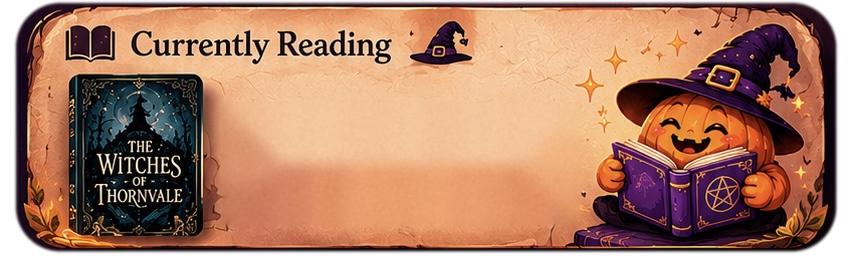
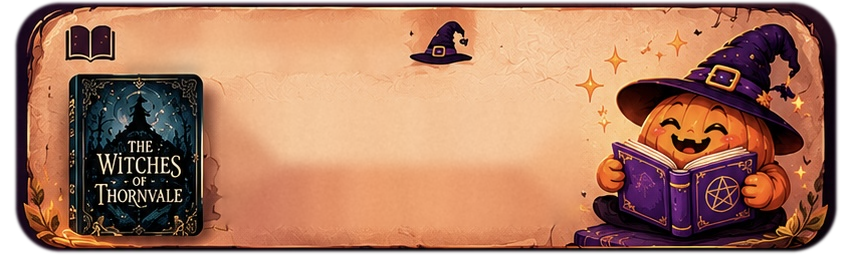
Home: turn the card into "Latest Addition" (home-14)
Shows the newest book saved (title, author, "Added today/yesterday/
date"); the book on the left is now a frame that shows its cover, or a
witchy placeholder cover with the title when there is none. Progress
bar removed. Reads Shelf's saved list until the new storage exists.

Claude-Session: https://claude.ai/code/session_01DZ2PcyBswD9UMmCJw8nEKc

Changed region(s): [[0.1526, 0.0927, 0.4577, 0.278]]

diff --git a/index.html b/index.html
@@ -3,7 +3,7 @@
 <head>
 <meta charset="utf-8">
 <meta http-equiv="Cache-Control" content="no-cache">
-<meta name="app-version" content="home-13">
+<meta name="app-version" content="home-14">
 <meta name="viewport" content="width=device-width, initial-scale=1, viewport-fit=cover, user-scalable=no">
 <meta name="apple-mobile-web-app-capable" content="yes">
 <meta name="mobile-web-app-capable" content="yes">
@@ -67,10 +67,17 @@ html,body{margin:0;height:100%;background:var(--skyTop,#12051f);overflow:hidden;
 #reading>*{position:absolute}
 .cr-title{left:232px;top:106px;width:300px;font-size:27px;font-weight:700;line-height:1.1;white-space:nowrap;overflow:hidden;text-overflow:ellipsis}
 .cr-author{left:233px;top:141px;width:300px;font-size:22px;line-height:1.1;white-space:nowrap;overflow:hidden;text-overflow:ellipsis}
-.cr-bar{left:231px;top:186px;width:267px;height:23px;border-radius:12px;background:linear-gradient(#fbead2,#ecd0ae);
- box-shadow:0 0 0 2px #4a2a22,inset 0 2px 3px rgba(0,0,0,.25),0 3px 5px rgba(60,20,10,.35);overflow:hidden}
-.cr-bar i{display:block;height:100%;border-radius:12px;background:linear-gradient(#b27ad8,#7a3fae 45%,#4e2180);box-shadow:inset 0 2px 1px rgba(255,255,255,.35),inset 0 -2px 2px rgba(0,0,0,.3),1px 0 0 #3a1460}
-.cr-pct{left:512px;top:182px;font-size:28px;font-weight:600}
+.la-head{left:130px;top:24px;font-size:33px;font-weight:600;letter-spacing:.2px;color:#2a1410}
+.la-when{left:233px;top:180px;width:300px;font-size:21px;font-style:italic;color:#6a3a2a}
+.la-cover{left:69px;top:74px;width:134px;height:162px;border-radius:6px;overflow:hidden;background:#140a1c;box-shadow:0 4px 10px rgba(40,10,10,.55),0 0 0 1px rgba(20,5,5,.6)}
+.la-cover img{position:absolute;inset:0;width:100%;height:100%;object-fit:cover}
+.la-cover::after{content:"";position:absolute;inset:0;pointer-events:none;border-radius:6px;
+ background:linear-gradient(90deg,rgba(0,0,0,.45),rgba(255,255,255,.18) 5%,rgba(0,0,0,.12) 9%,transparent 14%),linear-gradient(transparent 70%,rgba(0,0,0,.18))}
+.la-ph{position:absolute;inset:0;display:flex;flex-direction:column;align-items:center;justify-content:center;gap:8px;padding:14px 12px 10px 18px;
+ background:radial-gradient(circle at 50% 30%,#3c2a5c,#1e1232 70%);box-shadow:inset 0 0 0 5px #1e1232,inset 0 0 0 6px #c9a24e,inset 0 0 0 9px #1e1232,inset 0 0 0 10px rgba(201,162,78,.6)}
+.la-ph[hidden]{display:none}
+.la-ph svg{width:44px;height:44px}
+.la-ph span{font-size:15px;line-height:1.1;color:#e9c873;text-align:center;display:-webkit-box;-webkit-line-clamp:3;-webkit-box-orient:vertical;overflow:hidden}
 #topFade{width:852px;height:46px;pointer-events:none;background:linear-gradient(var(--skyTop,#12051f),transparent);z-index:1}
 #clock{top:452px;left:60px;width:732px;height:88px;display:flex;flex-direction:column;align-items:center;justify-content:center;
  font-family:"IM Fell English SC",Georgia,serif;color:#f1cf7c;text-shadow:0 0 14px rgba(255,180,80,.35),0 2px 2px #000;pointer-events:none}
@@ -122,11 +129,12 @@ html,body{margin:0;height:100%;background:var(--skyTop,#12051f);overflow:hidden;
   <nav id="bar" aria-label="Main">
     <button class="tab" aria-label="Button 1"></button><button class="tab" aria-label="Button 2"></button><button class="tab" aria-label="Button 3"></button><button class="tab" aria-label="Button 4"></button>
   </nav>
-  <section id="reading" aria-label="Currently reading">
-    <div class="cr-title">The Witches of Thornvale</div>
-    <div class="cr-author">Elise Hartman</div>
-    <div class="cr-bar" role="progressbar" aria-valuenow="68" aria-valuemin="0" aria-valuemax="100"><i style="width:68%"></i></div>
-    <div class="cr-pct">68%</div>
+  <section id="reading" aria-label="Latest addition">
+    <div class="la-head">Latest Addition</div>
+    <div class="la-cover"><img id="laImg" alt="" hidden><div id="laPh" class="la-ph"><svg viewBox="0 0 40 40" aria-hidden="true"><path d="M24 6a14 14 0 1 0 10 24A11 11 0 1 1 24 6z" fill="#e9c873"/><path d="M31 9l1 2.4 2.4 1-2.4 1-1 2.4-1-2.4-2.4-1 2.4-1z" fill="#f6dc96"/></svg><span id="laPhTitle"></span></div></div>
+    <div class="cr-title" id="laTitle"></div>
+    <div class="cr-author" id="laAuthor"></div>
+    <div class="la-when" id="laWhen"></div>
   </section>
   <div id="topFade"></div>
   <div id="clock"><div id="time">--:--</div><div id="phase"></div></div>
@@ -716,8 +724,35 @@ document.getElementById('pumpkinHit').addEventListener('click',()=>{const v=pkWa
 document.getElementById('candleHit').addEventListener('click',()=>{const v=want?0:1;override=(v===autoPrev)?null:v});
 raf=requestAnimationFrame(frame);
 
+/* ---------- latest addition card ---------- */
+function newestBook(){
+  let books=[];try{books=JSON.parse(localStorage.getItem('shelf.books.v1')||'[]')}catch(e){}
+  if(!Array.isArray(books))return null;
+  return books.reduce((a,b)=>b&&(!a||(b.added||0)>(a.added||0))?b:a,null);
+}
+function whenText(ms){
+  if(!ms)return '';const d=new Date(ms),n=new Date(),day=864e5;
+  const diff=Math.floor((new Date(n.getFullYear(),n.getMonth(),n.getDate())-new Date(d.getFullYear(),d.getMonth(),d.getDate()))/day);
+  if(diff<=0)return 'Added today';if(diff===1)return 'Added yesterday';
+  return 'Added '+d.toLocaleDateString('en-GB',{day:'numeric',month:'long',year:d.getFullYear()===n.getFullYear()?undefined:'numeric'});
+}
+function renderLatest(){
+  const b=newestBook(),im=document.getElementById('laImg'),ph=document.getElementById('laPh');
+  const title=b?(b.title||'Untitled'):'No books yet';
+  document.getElementById('laTitle').textContent=title;
+  document.getElementById('laAuthor').textContent=b?((b.authors||[]).join(', ')||'Unknown author'):'Add your first book';
+  document.getElementById('laWhen').textContent=b?whenText(b.added):'';
+  document.getElementById('laPhTitle').textContent=b?title:'';
+  const showPh=()=>{im.hidden=true;ph.hidden=false};
+  if(b&&b.cover){im.onload=()=>{im.hidden=false;ph.hidden=true};im.onerror=showPh;if(im.getAttribute('src')!==b.cover)im.src=b.cover;else if(im.complete&&im.naturalWidth){im.hidden=false;ph.hidden=true}}
+  else{im.removeAttribute('src');showPh()}
+}
+renderLatest();
+addEventListener('pageshow',renderLatest);addEventListener('storage',renderLatest);
+document.addEventListener('visibilitychange',()=>{if(!document.hidden)renderLatest()});
+
 /* ---------- offline + auto-update ---------- */
-const APP_VERSION='home-13';
+const APP_VERSION='home-14';
 if('serviceWorker' in navigator)navigator.serviceWorker.register('./sw.js').catch(()=>{});
 async function checkUpdate(){
   try{
